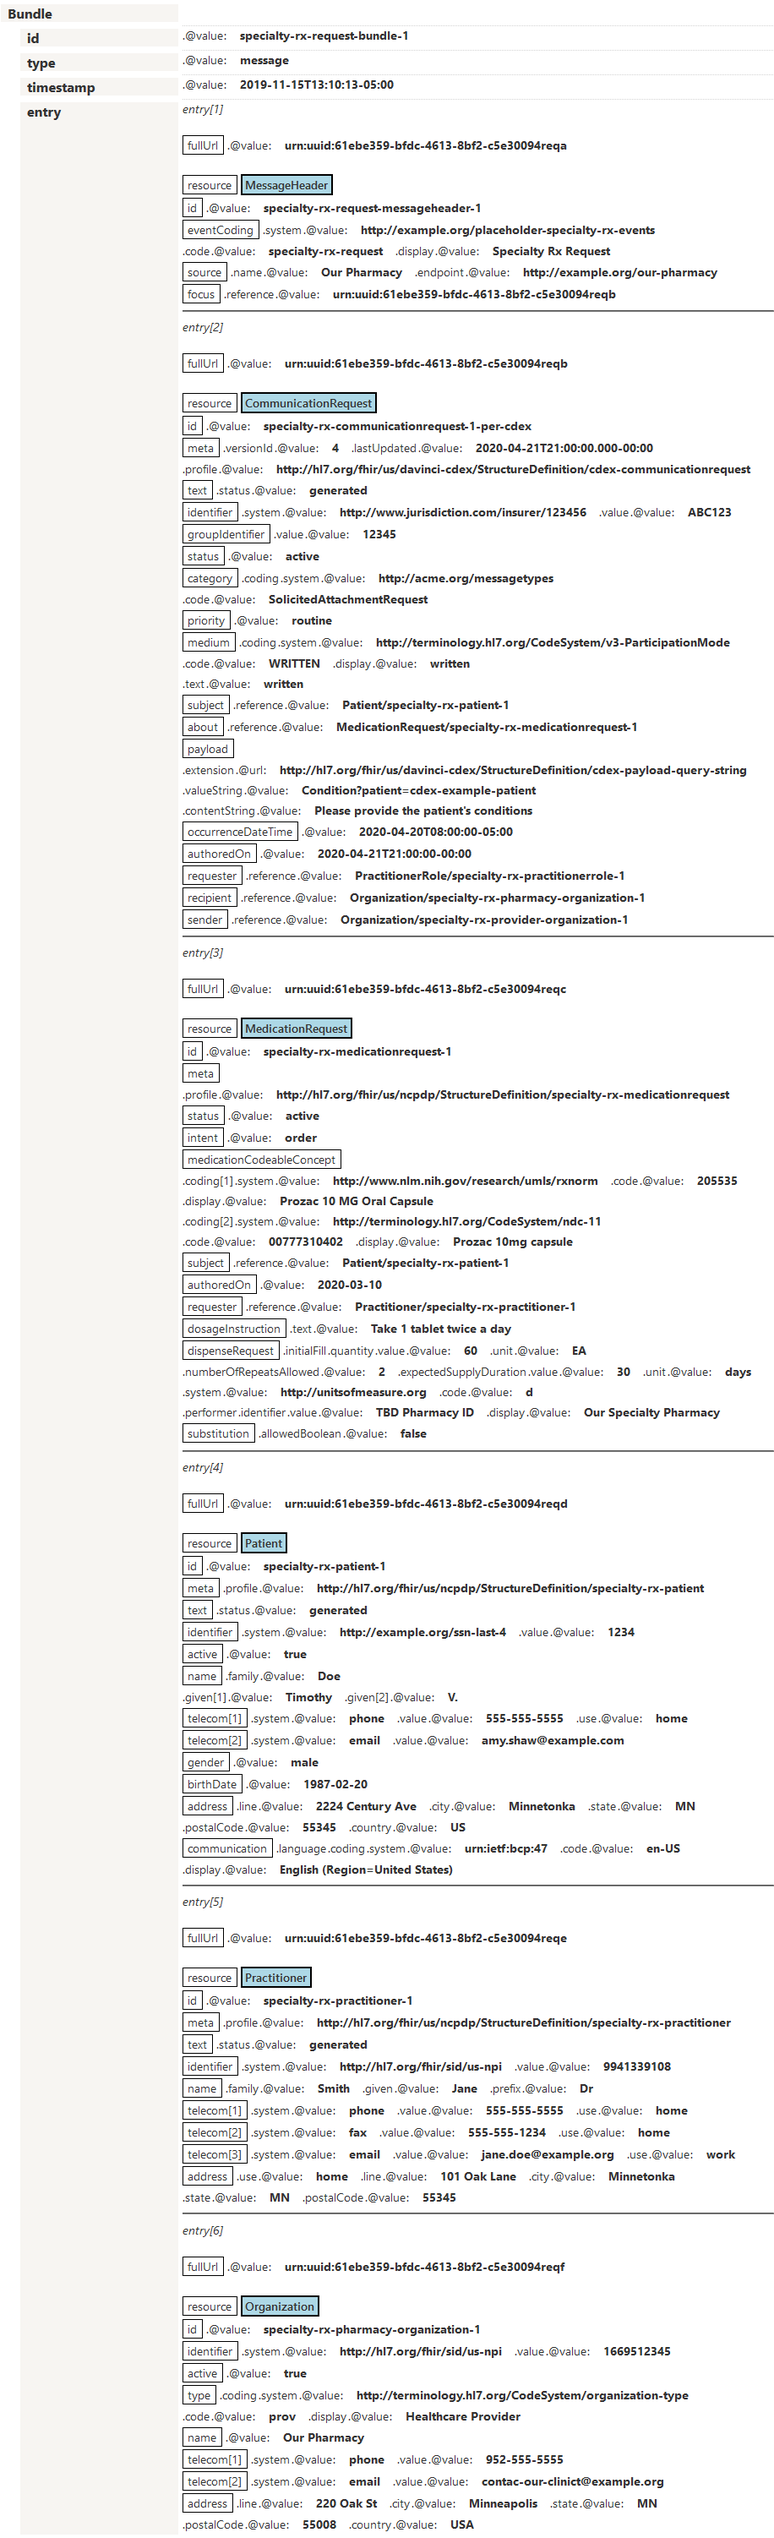
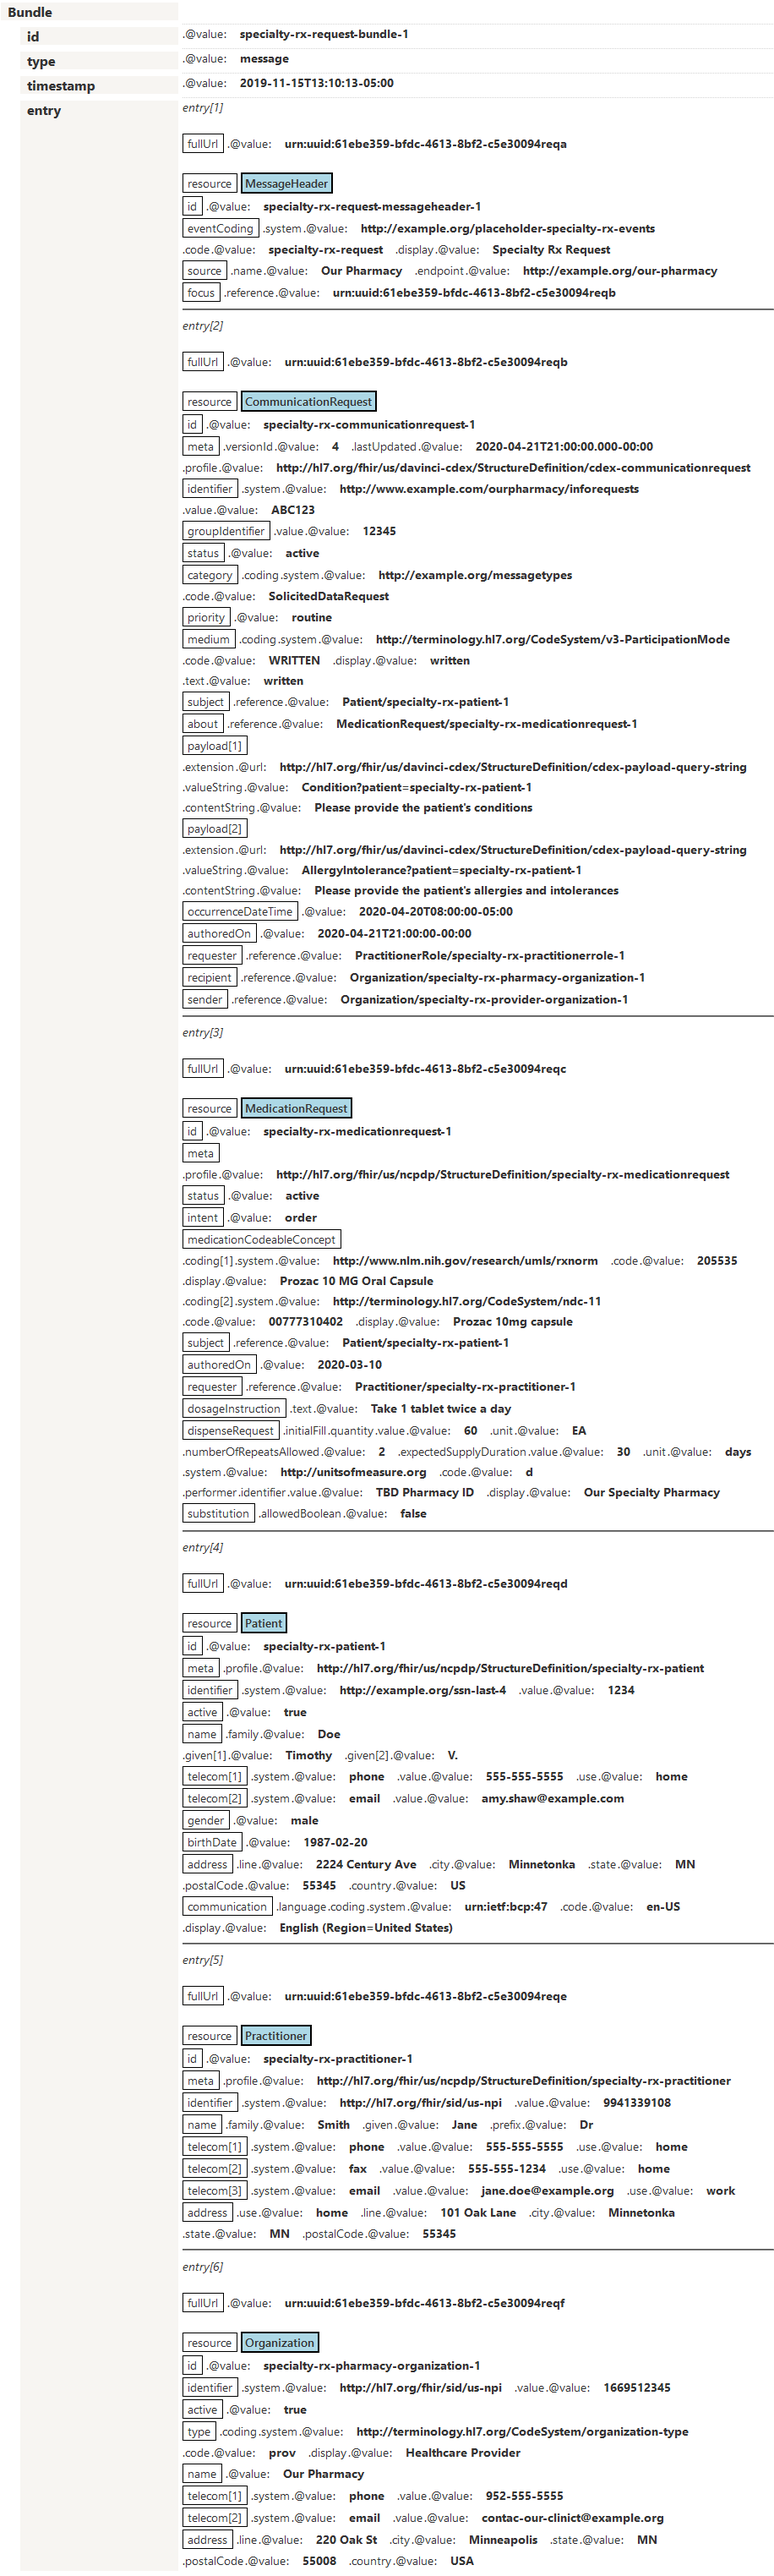
Additional examples and refinements

diff --git a/input/pages/index.md b/input/pages/index.md
@@ -68,6 +68,11 @@ The implementation guide supports business functions related to fulfillment of s
             <li>Investigating challenges conforming to CDex Communication profile... specifically the Communication.basedOn element's slicing to require the basedOn resource to conform to CDex Communication. Currently using an IG-defined Communication profile that adjusts the basedOn slicing discriminator to basedOn.resolve().</li><li>Encountering build error in specialty-rx-response-bundle-1, also related to Communication.basedOn, if the CommunicationRequest is not included in the bundle (and it probably shouldn't be included). Investigating</li>
             </ul></td>
   	  </tr>
+          	  <tr>
+		<td>May 1, 2020</td>
+		<td>Additional example content including an unsolicited standard Specialty Rx Bundle containing current medications, allergies, conditions and vitals. Refined existing examples</td>
+  	  </tr>
+
 
 
 

diff --git a/input/pages/Observation-specialty-rx-lab-observation-1-intro.md b/input/pages/Observation-specialty-rx-lab-observation-1-intro.md
@@ -1,4 +1,4 @@
 <h4>Example data content</h4>
 <br>
 
-<img src="specialty-rx-observation-1.png" alt="example data content"/><br><br>
+<img src="specialty-rx-lab-observation-1.png" alt="example data content"/><br><br>

diff --git a/input/pages/Patient-specialty-rx-patient-1-intro.md b/input/pages/Patient-specialty-rx-patient-1-intro.md
@@ -1,4 +1,4 @@
 <h4>Example data content</h4>
 <br>
 
-<img src="specialty-rx-observation-1.png" alt="example data content"/><br><br>
+<img src="specialty-rx-patient-1.png" alt="example data content"/><br><br>
